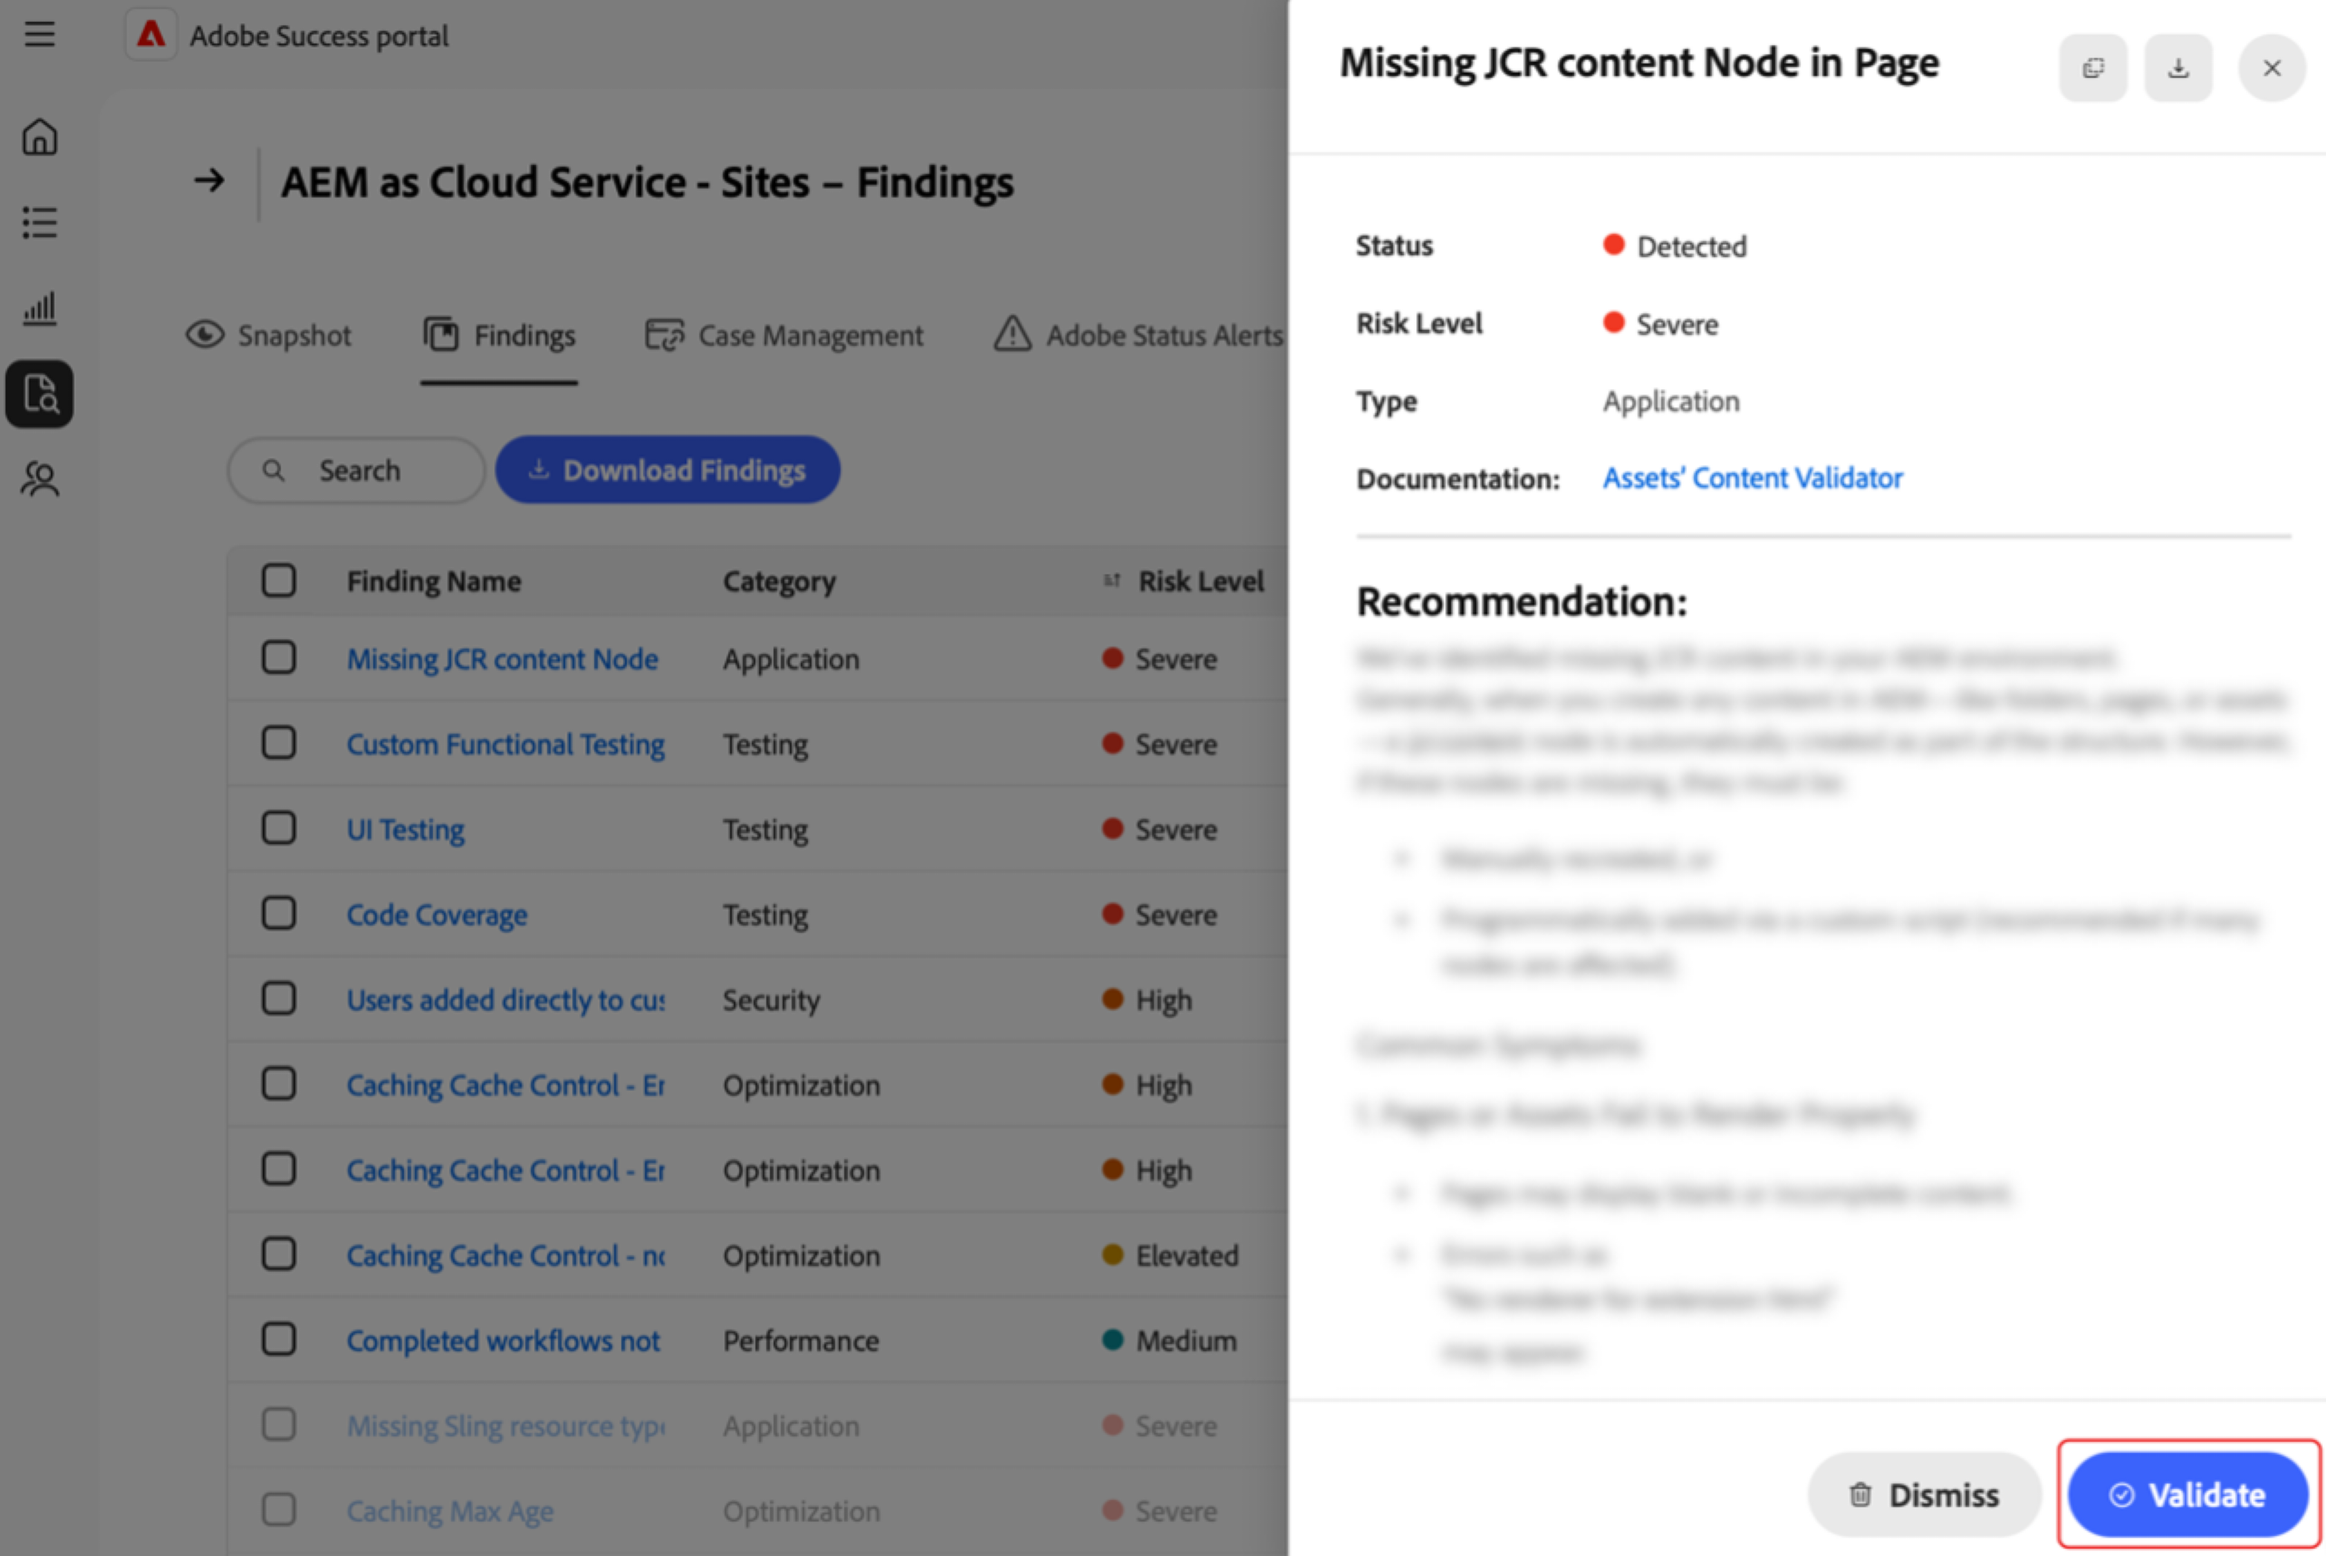
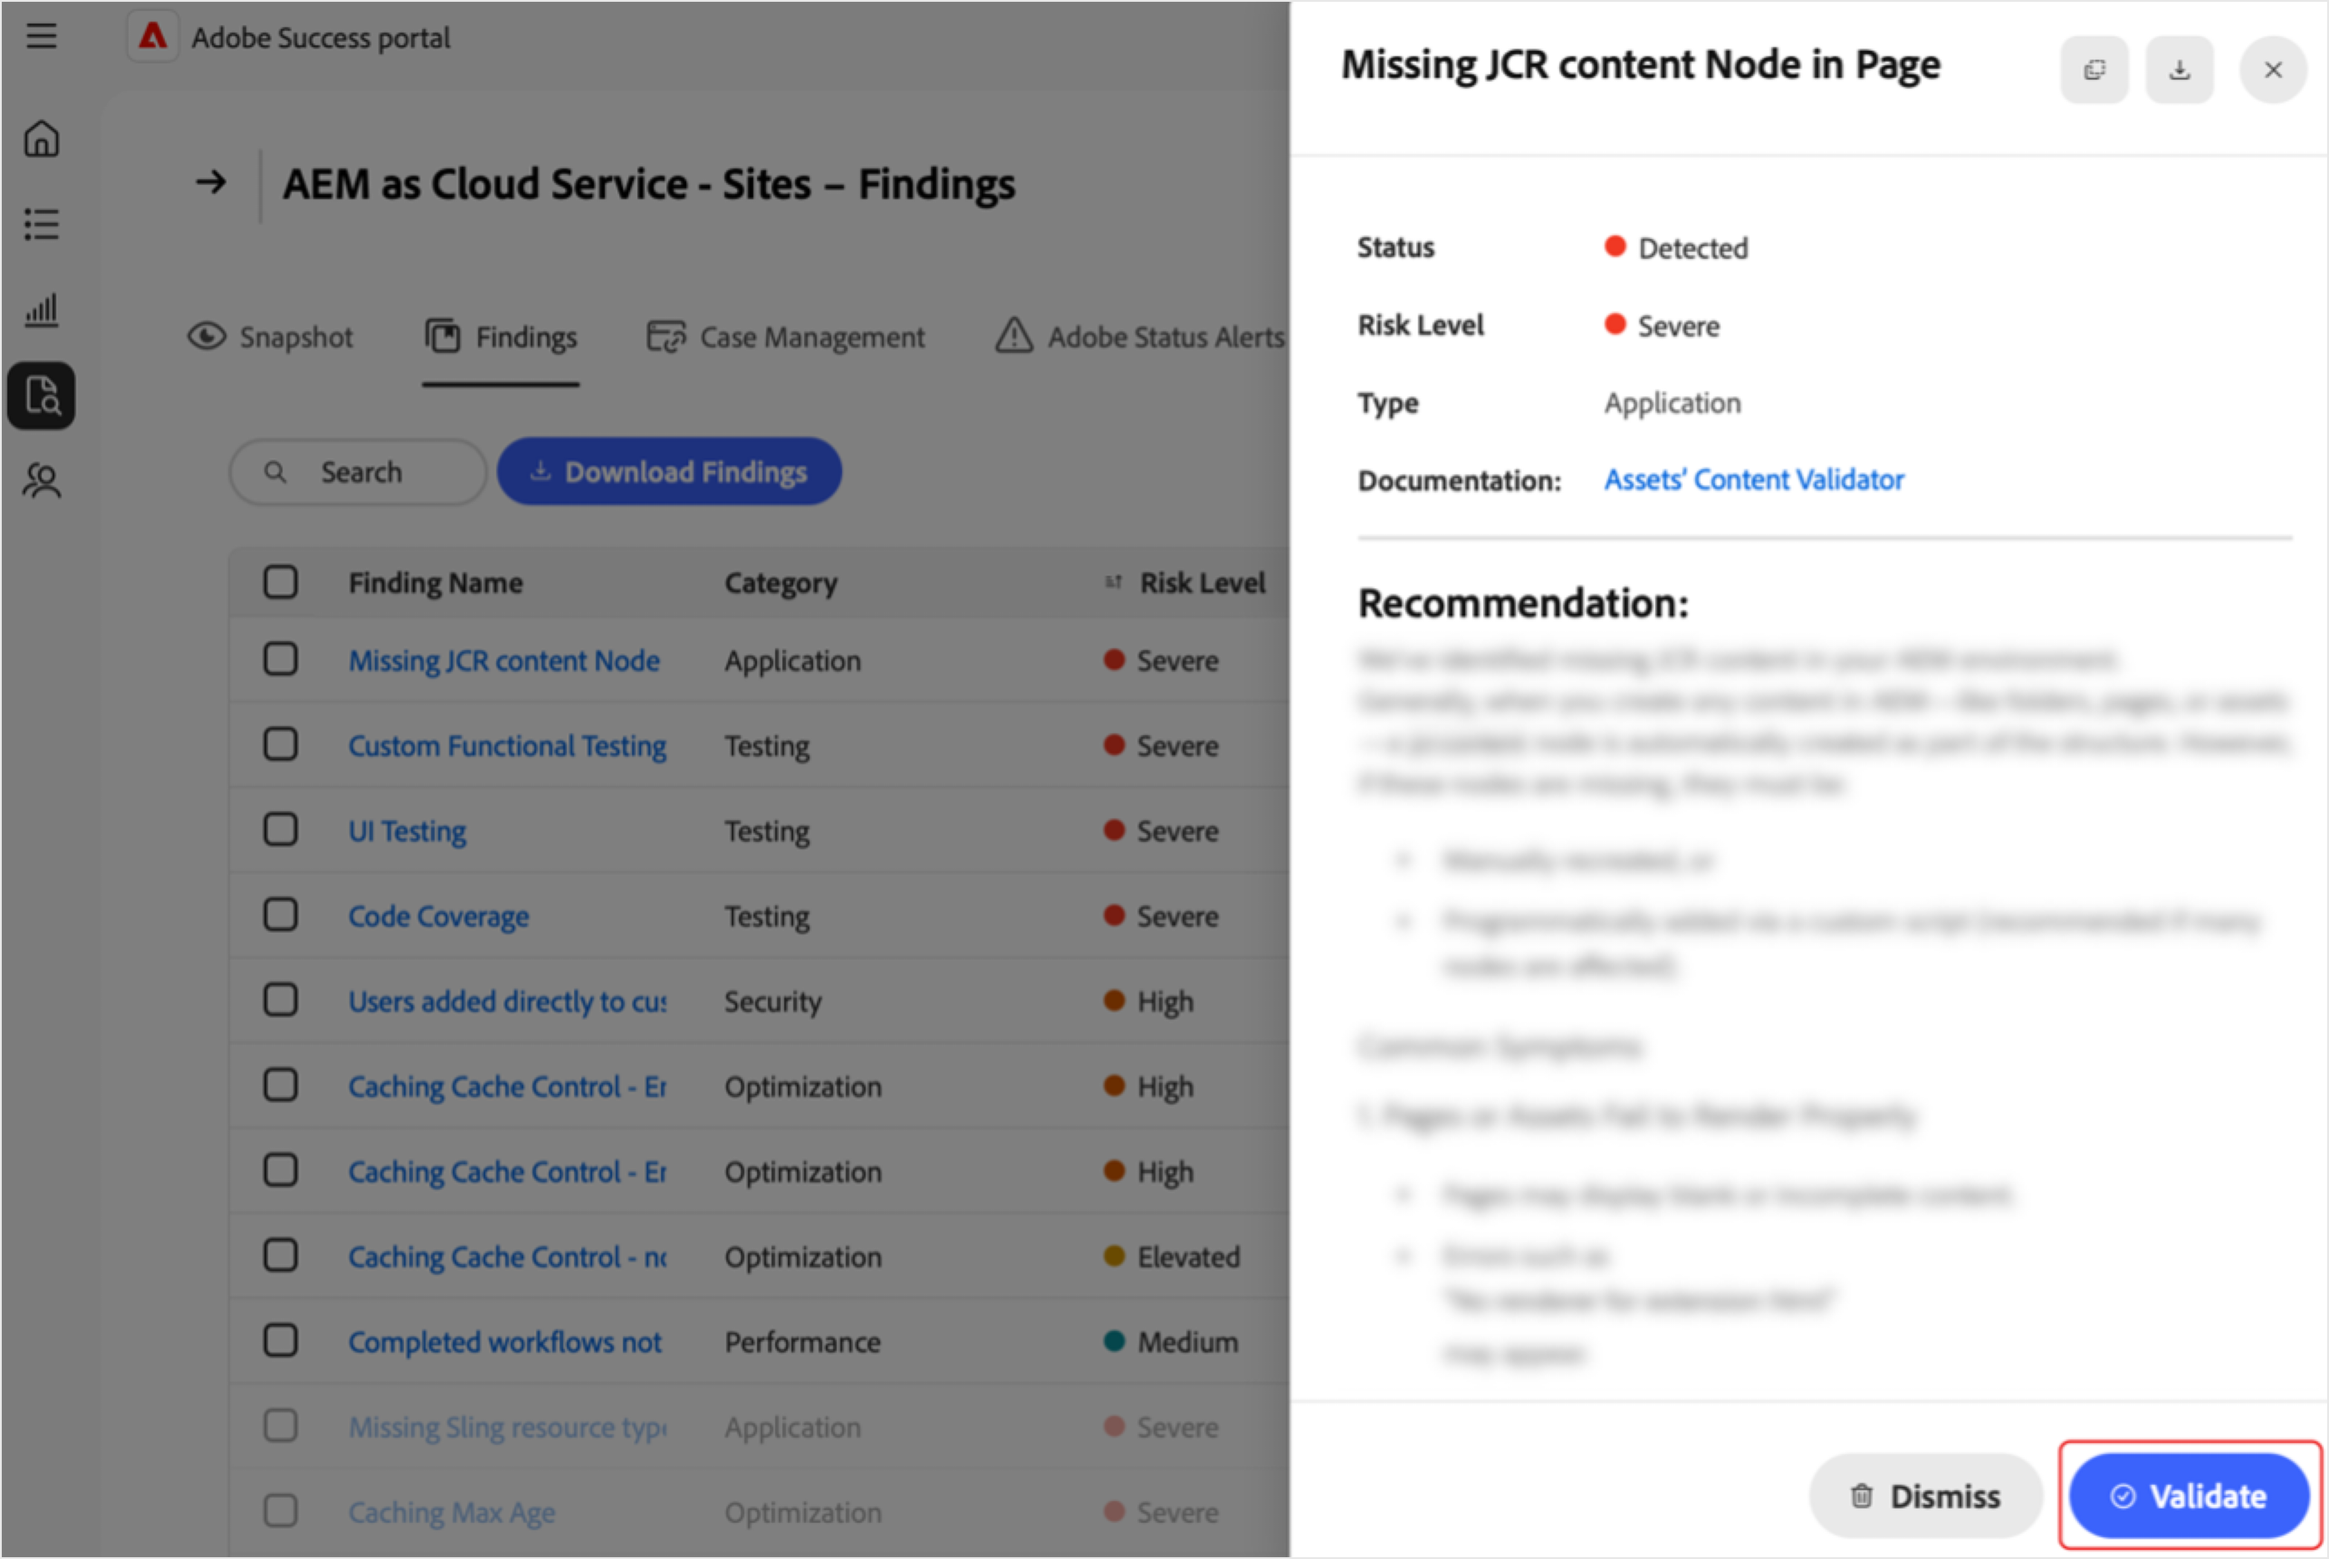
replaced images

diff --git a/help/adobe-success-portal/technical-persona/support-and-insights/manage-findings-adobe-success-portal.md b/help/adobe-success-portal/technical-persona/support-and-insights/manage-findings-adobe-success-portal.md
@@ -54,7 +54,7 @@ To view insights for a product:
 * Export the list of findings by selecting **[!UICONTROL Download Findings]**. To export a report for one finding, select the checkbox next to the relevant finding under the column **[!UICONTROL Finding Name]**. If you do not select a finding, the PDF by default contains a list of all findings.  
 * See details on a finding, including a recommended resolution by selecting a finding under **[!UICONTROL Finding Name]**. The Finding details page displays the selected finding with additional context and a recommendation. To see this report select the download arrow. 
 
-   ![adobe-success-portal-validate](../../assets/adobe-success-portal-validate.png)
+   ![findings-details](../../assets/findings-details.png)
 
  
 ## Action findings 
